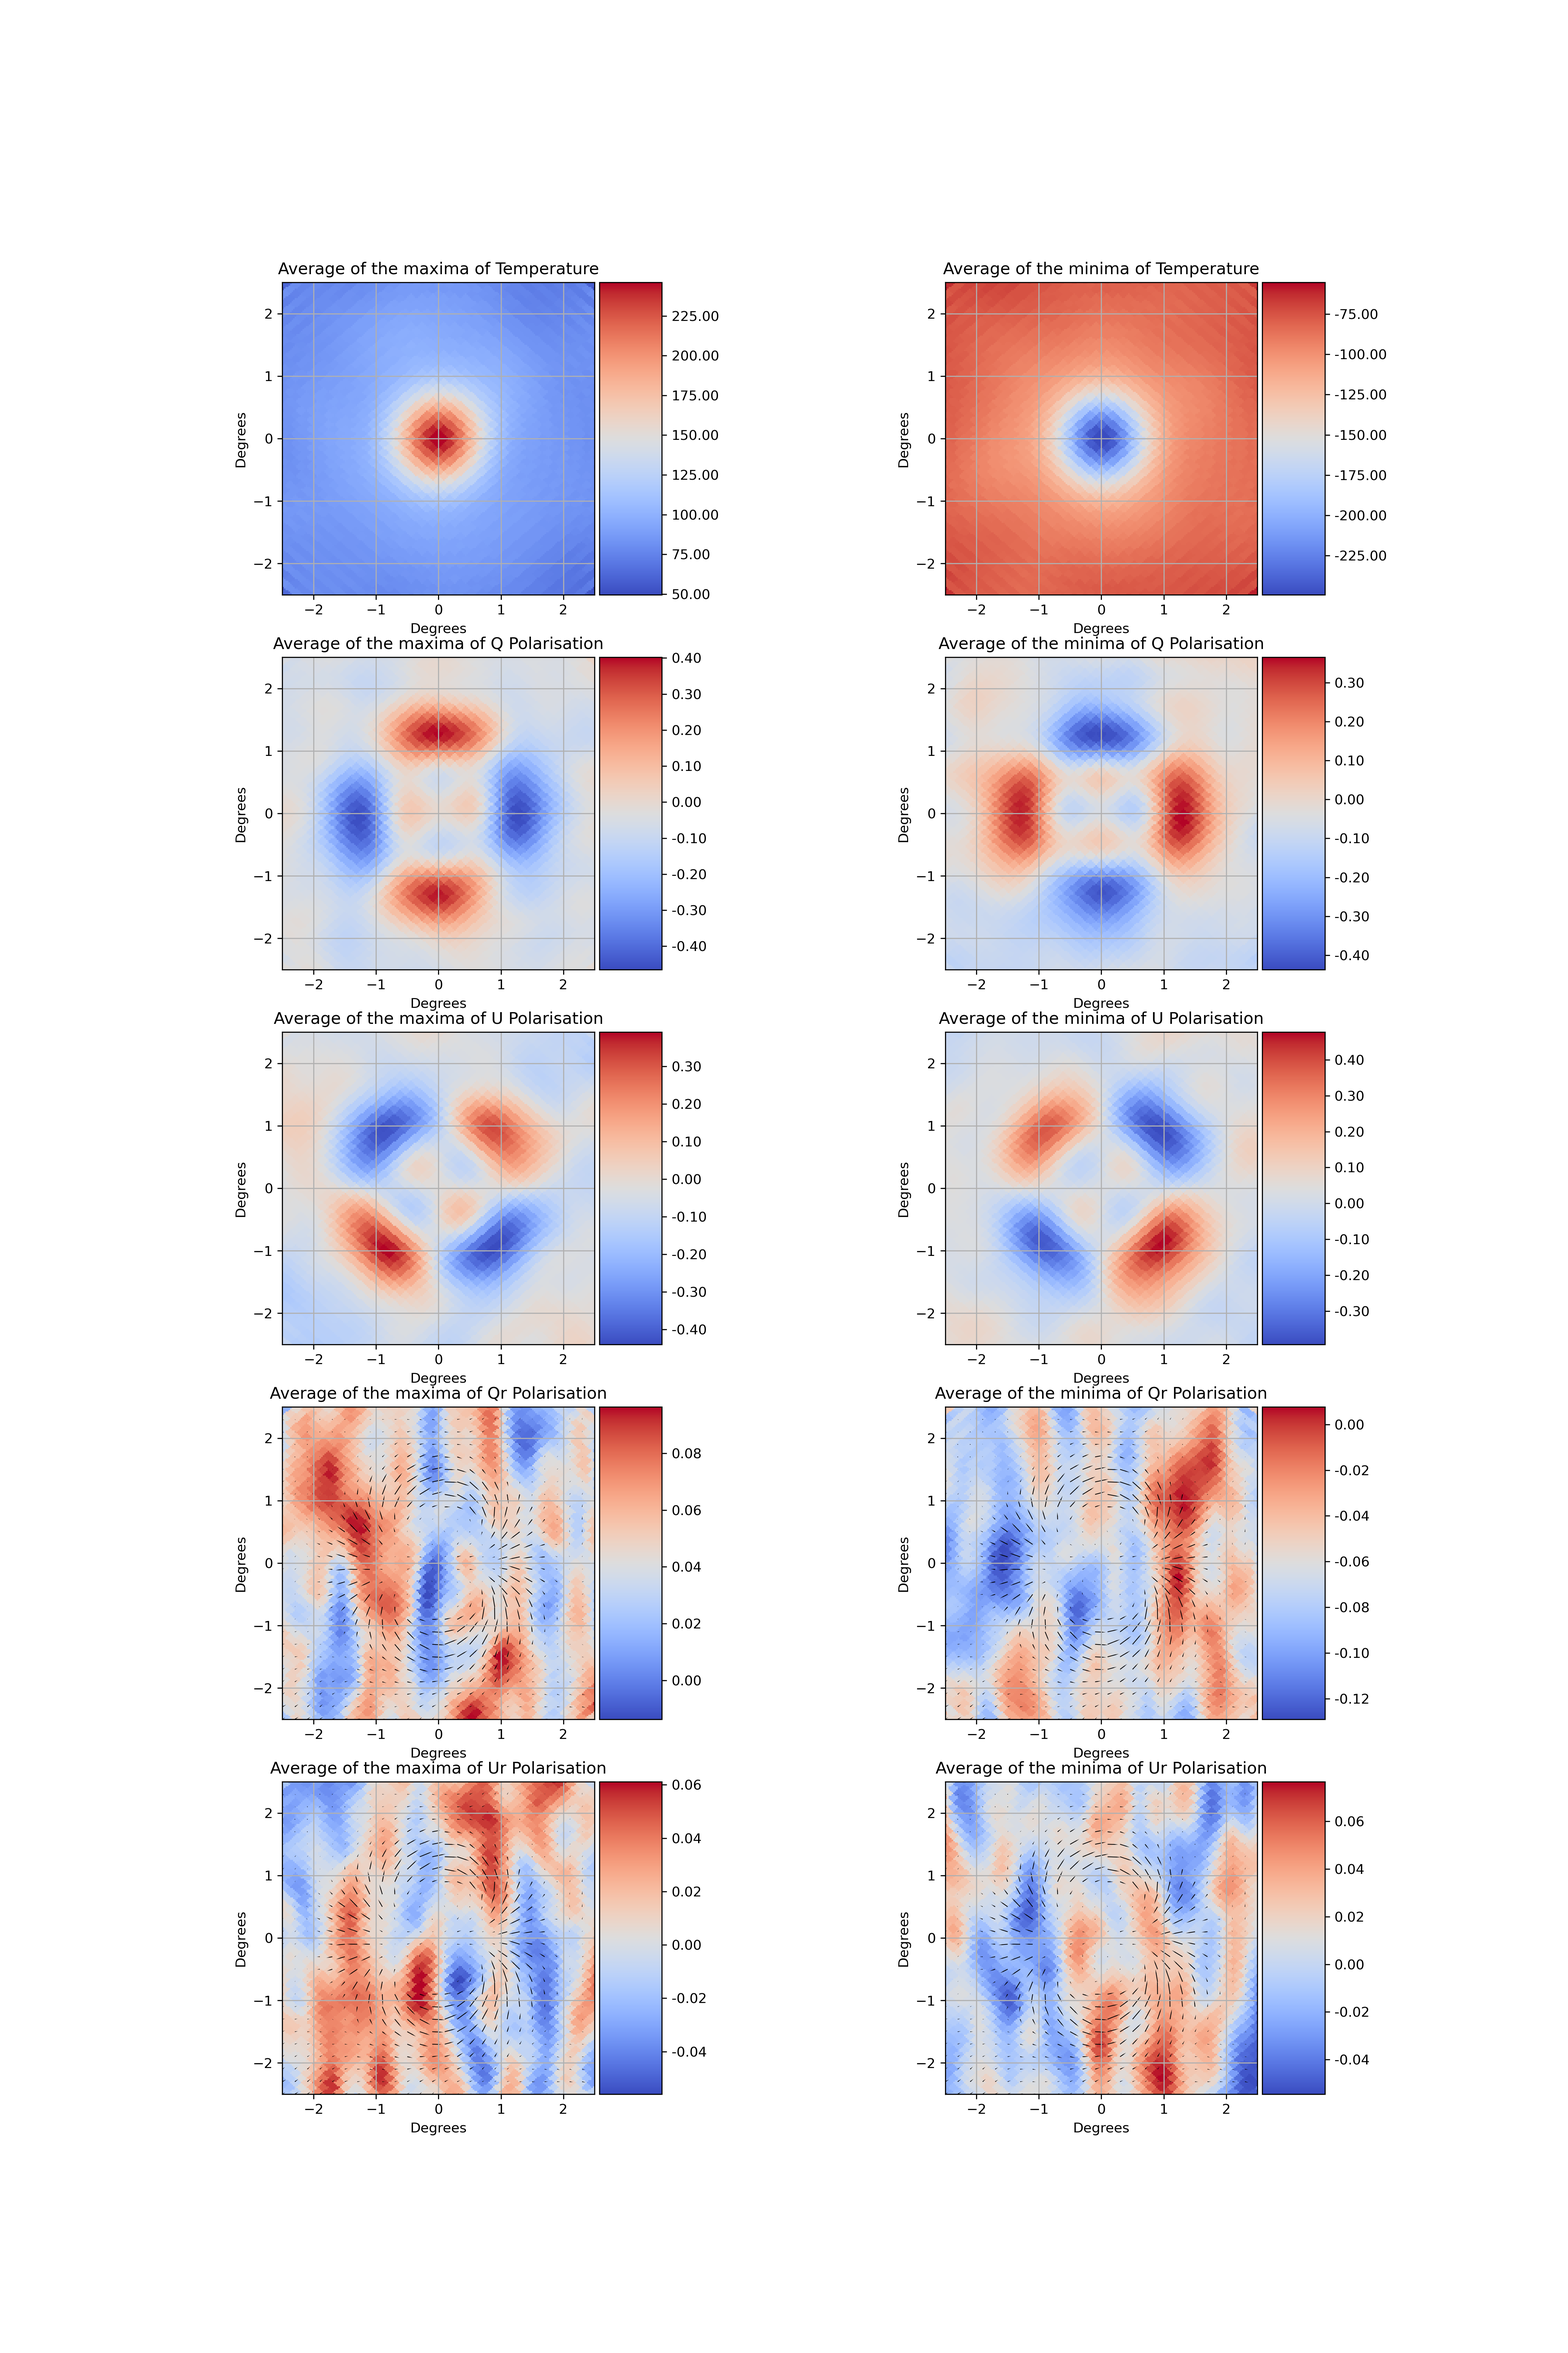
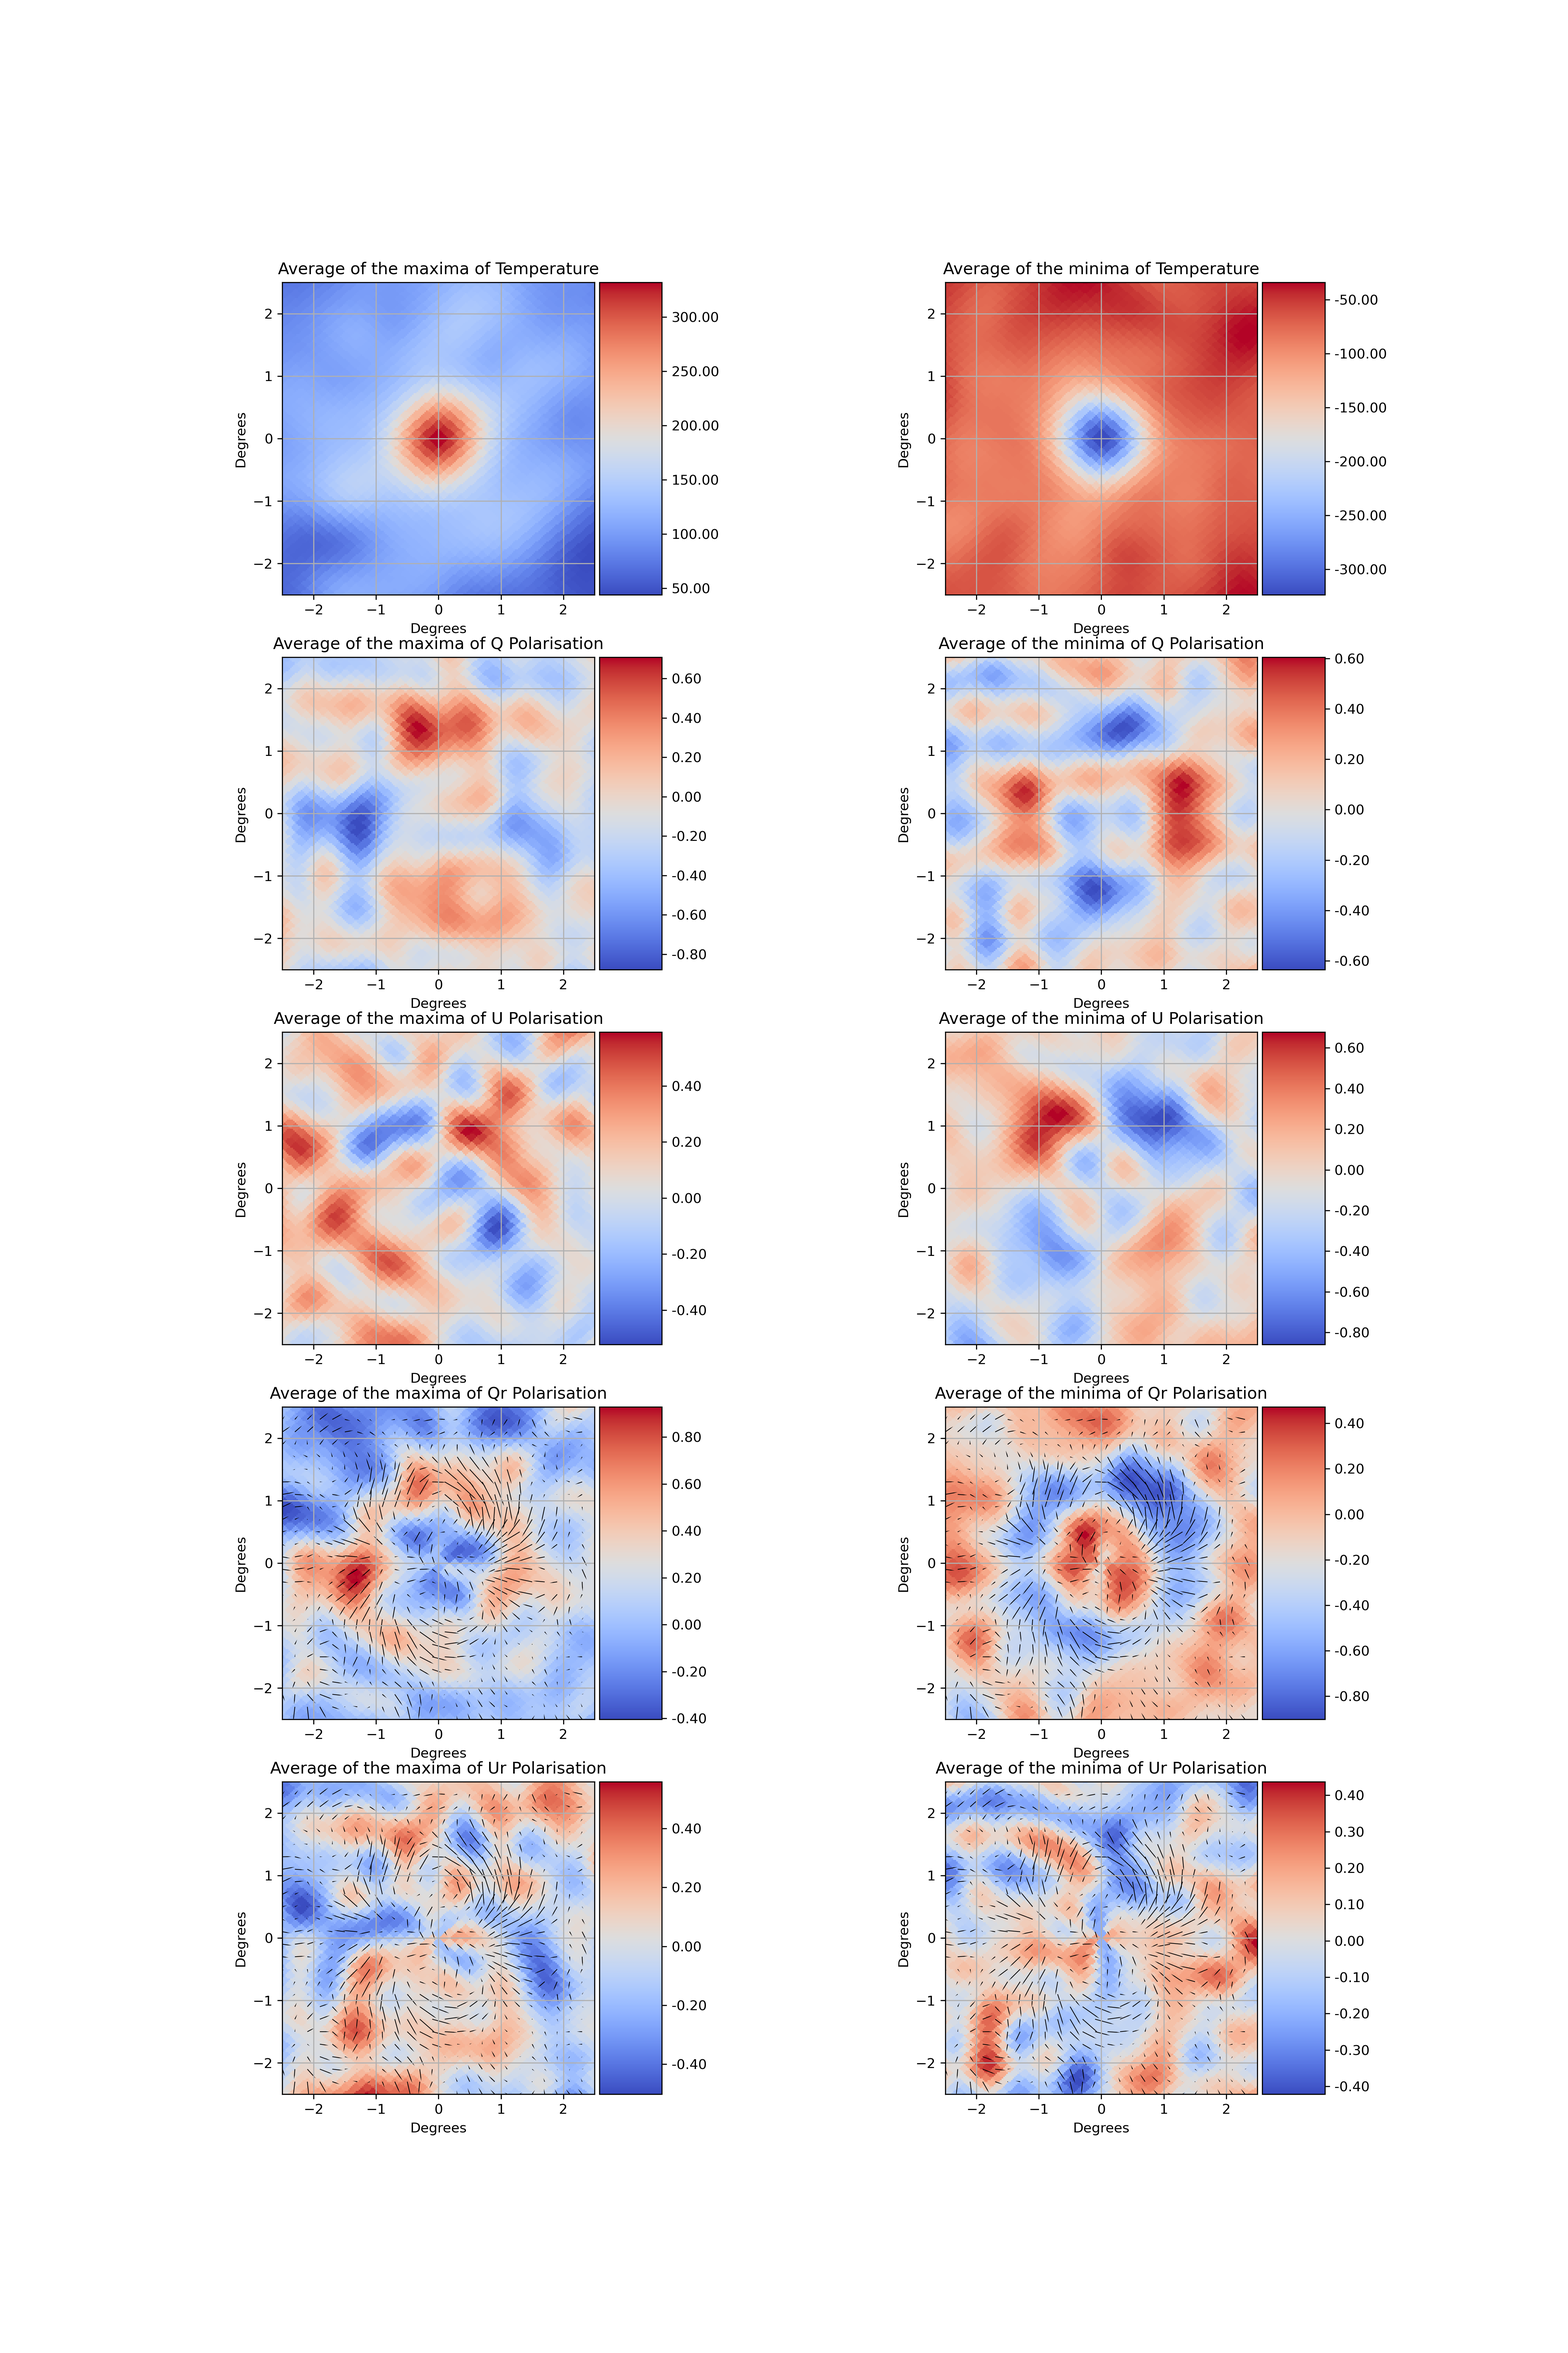
trial for new code

diff --git a/CMB/average_finder.py b/CMB/average_finder.py
@@ -15,17 +15,18 @@ from mpl_toolkits.axes_grid1 import make_axes_locatable
 
 
 # Define Qr and Ur parameters using Numba
-@jit(nopython=True)
+@jit(nopython=True, parallel=True)
 def Qr(Q, U, phi):
     return -Q * np.cos(2 * phi) - U * np.sin(2 * phi)
 
 
-@jit(nopython=True)
+@jit(nopython=True, parallel=True)
 def Ur(Q, U, phi):
     return Q * np.sin(2 * phi) - U * np.cos(2 * phi)
 
 
 # Generate polarization vectors using Numba
+@jit(nopython=True)
 def pol_vec(Q, U):
     phi = 0.5 * np.arctan2(U, Q)
     P = np.sqrt(Q**2 + U**2)
@@ -87,31 +88,23 @@ def plot_param(ax, im_data, x, y, u, v, params, minmax, quiver_params=None):
 # Function to compute data for one peak with an index
 def process_peak(smooth_map, index, minmax, j, nside):
     lon, lat = hp.pix2ang(nside, index[minmax, j], lonlat=True)
-    pos = hp.ang2vec(lon, lat, lonlat=True)
-    # Find neighbours in a 5x5 degree area centred at the central point
-    neigh = hp.query_disc(nside, pos, np.radians(np.sqrt(2 * 2.5**2)))
+    rot = hp.Rotator(rot=[lon, lat], deg=True)
+    cmap = rot.rotate_map_alms(smooth_map)
+    neigh = hp.query_disc(512, np.array([1, 0, 0]), np.radians(np.sqrt(2 * 2.5**2)))
     neigh_lon, neigh_lat = hp.pix2ang(nside, neigh, lonlat=True)
-
-    # Rotating the map to have the peak be at the centre
-    rot = hp.Rotator(rot=[lon, lat])
-    rot_lon, rot_lat = rot(neigh_lon, neigh_lat)
-    phi = np.arctan2(rot_lat, rot_lon)
+    phi = np.arctan2(neigh_lat, np.where(neigh_lon < 180, neigh_lon, neigh_lon - 360))
     empty_original = np.zeros((3, hp.nside2npix(nside)))
     pol_map = np.zeros((2, hp.nside2npix(nside)))
     # made map of only the neighbours of peak in original coordinates
     for pindx in range(3):
         empty_original[pindx, neigh] = smooth_map[pindx, neigh]
-    rot_map = rot.rotate_map_alms(empty_original)
-    rot_indx = hp.ang2pix(nside, rot_lon, rot_lat, lonlat=True)
-    pol_map[0, neigh] = Qr(rot_map[1, rot_indx], rot_map[2, rot_indx], phi)
-    pol_map[1, neigh] = Ur(rot_map[1, rot_indx], rot_map[2, rot_indx], phi)
-    pol_map[0, :] = rot.rotate_map_alms(pol_map[0, :])
-    pol_map[1, :] = rot.rotate_map_alms(pol_map[1, :])
+    pol_map[0, neigh] = Qr(cmap[1, neigh], cmap[2, neigh], phi)
+    pol_map[1, neigh] = Ur(cmap[1, neigh], cmap[2, neigh], phi)
     result = np.zeros((5, 200, 200))
     for pindx in range(5):
         if pindx < 3:
             gnom_map = hp.gnomview(
-                rot_map[pindx, :],
+                cmap[pindx, :],
                 reso=5 * 60 / 200,
                 return_projected_map=True,
                 no_plot=True,
@@ -176,7 +169,7 @@ def stack_cmb_params(no_spots, lensing=True, nside=512):
 
 
 # Run function
-peaks = 20000
+peaks = 500
 
 start_time = time.time()
 lensed = stack_cmb_params(peaks, lensing=True)
